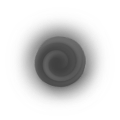
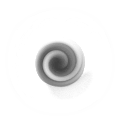
Add coin with collision.

diff --git a/src/Map.js b/src/Map.js
@@ -3,6 +3,7 @@ var Map = cc.Node.extend({
 	ctor: function( shiftedLayer ) {
 		this._super();
 		this.shiftedLayer = shiftedLayer;
+		this.collectedCoin = 0;
 		// beware BUG here.. "DO NOT" use this value for array range.
 		// this value is numbers of blocks shown in the screen.
 		this.SCREEN_WIDTH = 10;
@@ -11,11 +12,11 @@ var Map = cc.Node.extend({
 		this.readableMap = [
 			'#############################################################',
 			'#_________________________________##___#_#__##__________#####',
-			'#___________##______________________#____#__##______________#',
-			'#_________*_###____________________##__#_###________________#',
-			'#___________________________________________________________#',
+			'#____****___##________***___________#____#__##______________#',
+			'#___*_____*_###_______###__________##__#_###________________#',
+			'#_____*___________*_________________________________________#',
 			'#__________###_########___________###__#_#####______________#',
-			'###_____######_________________##########________##_________#',
+			'###__#__######_________________##########________##_________#',
 			'#####___#####################################################',
 			'#___________##############____________________#########_____#',
 			'#___________#_______________________________________________#',
@@ -134,6 +135,7 @@ var Map = cc.Node.extend({
 					type = Block.TYPE.DIRT;
 				} else if ( this.map[ r ][ c ] == '*' ) {
 					type = Block.TYPE.COIN;
+					// console.log( "coin=" + r + "," + c)
 				} else if ( this.map[ r ][ c ] == '#' ) {
 					type = Block.TYPE.DIRT;
 				} else if ( this.map[ r ][ c ] == '_' ) {
@@ -159,15 +161,47 @@ var Map = cc.Node.extend({
 		}
 	},
 
-	touched: function( blockX, blockY ) {
+	touch: function( corners ) {
+
+		for ( var i = 0; i < corners.length; i++ ) {
+			if ( corners[i].isAThing() ) {
+				var blockX = corners[i].getBlockX();
+				var blockY = corners[i].getBlockY();
+
+				var r = this.SCREEN_HEIGHT - blockY - 1;
+				r += this.shiftValueRow;
+				var c = blockX;
+				c += this.shiftValueColumn;
+				
+				if ( ! this.isOutOfBound( r, c ) ) {
+					// console.log((r - 1) + "," + c )
+					if ( this.childrenHash[ (r) + "," + c ].type == Block.TYPE.DIRT ) {
+						this.childrenHash[ (r - 1) + "," + c ].touched();
+					} else {
+
+						if ( this.childrenHash[ (r) + "," + c ].type  == Block.TYPE.COIN ) {
+							this.setBlock( r, c, "_" );
+							this.collectedCoin++;
+							this.plotMap();
+						} else {
+							this.childrenHash[ (r) + "," + c ].touched();	
+						}
+					}
+				}
+			}
+		}
+	},
+
+	isAThing: function( blockX, blockY ) {
 		var r = this.SCREEN_HEIGHT - blockY - 1;
 		r += this.shiftValueRow;
 		var c = blockX;
 		c += this.shiftValueColumn;
-		
-		if ( ! this.isOutOfBound( r, c ) ) {
-			this.childrenHash[ (r - 1) + "," + c ].touched();
+		if ( this.isOutOfBound( r, c ) ) {
+			return true;
 		}
+
+		return this.map[ r ][ c ] == '#' || this.map[ r ][ c ] == '*';
 	},
 
 	isBlock: function( blockX, blockY ) {

diff --git a/src/RigidBody.js b/src/RigidBody.js
@@ -135,11 +135,13 @@ var RigidBody = cc.Sprite.extend({
 		if ( this.velocityX < 0 ) {
 			if ( topLeftCorner.isFree() && bottomLeftCorner.isFree() ) {
 				this.nextPositionX += this.velocityX;
+				// this.checkTouchingAThing( topLeftCorner, topRightCorner, bottomLeftCorner, bottomRightCorner );
 				return;
 			}
 		} else if ( this.velocityX > 0 ) {
 			if ( topRightCorner.isFree() && bottomRightCorner.isFree() ) {
 				this.nextPositionX += this.velocityX;
+				// this.checkTouchingAThing( topLeftCorner, topRightCorner, bottomLeftCorner, bottomRightCorner );
 				return;
 			}
 		} else {
@@ -150,18 +152,26 @@ var RigidBody = cc.Sprite.extend({
 		this.velocityX = 0;
 	},
 
+	touchTheGround: function( bottomLeftCorner, bottomRightCorner ) {
+		this.jumpStep = 0;
+		this.map.touch( [ bottomLeftCorner, bottomRightCorner ] );
+	},
+
 	checkTopOrBottomCollision: function( topLeftCorner, topRightCorner, bottomLeftCorner, bottomRightCorner ) {
 		if ( this.velocityY < 0 ) {
 			if ( bottomLeftCorner.isFree() && bottomRightCorner.isFree() ) {
 				this.nextPositionY += this.velocityY;
 				return;
 			} else {
-				this.jumpStep = 0;
+				this.touchTheGround( bottomLeftCorner, bottomRightCorner );
+				this.checkTouchingAThing( topLeftCorner, topRightCorner, bottomLeftCorner, bottomRightCorner );
+
 			}
 			
 		} else if ( this.velocityY > 0 ) {
 			if ( topLeftCorner.isFree() && topRightCorner.isFree() ) {
 				this.nextPositionY += this.velocityY;
+				this.checkTouchingAThing( topLeftCorner, topRightCorner, bottomLeftCorner, bottomRightCorner );
 				return;
 			}
 		} else {
@@ -201,6 +211,20 @@ var RigidBody = cc.Sprite.extend({
 		var bottomLeftCorner = new Corner( new cc.Point( currentPositionX, newPositionY) );
 		var bottomRightCorner = new Corner( new cc.Point( currentPositionX + this.PIXEL_SIZE_WITH_OFFSET, newPositionY) );
 		this.checkTopOrBottomCollision( topLeftCorner, topRightCorner, bottomLeftCorner, bottomRightCorner );
+
+
+		// var concludePositionX = currentPositionX + this.nextPositionX;
+		// var concludePositionY = currentPositionY + this.nextPositionY;
+		// var topLeftCorner = new Corner( new cc.Point( concludePositionX, concludePositionY + this.PIXEL_SIZE_WITH_OFFSET ) );
+		// var topRightCorner = new Corner( new cc.Point( concludePositionX + this.PIXEL_SIZE_WITH_OFFSET , concludePositionY + this.PIXEL_SIZE_WITH_OFFSET) );
+		// var bottomLeftCorner = new Corner( new cc.Point( concludePositionX, concludePositionY) );
+		// var bottomRightCorner = new Corner( new cc.Point( concludePositionX + this.PIXEL_SIZE_WITH_OFFSET, concludePositionY) );
+
+		// this.checkTouchingAThing( topLeftCorner, topRightCorner, bottomLeftCorner, bottomRightCorner );
+	},
+
+	checkTouchingAThing: function( topLeftCorner, topRightCorner, bottomLeftCorner, bottomRightCorner ) {
+		this.map.touch( [ topLeftCorner, topRightCorner, bottomLeftCorner, bottomRightCorner ] );
 	},
 
 	calculateNextPosition: function( onFocus ) {

diff --git a/src/Block.js b/src/Block.js
@@ -5,7 +5,8 @@ var Block = cc.Sprite.extend({
 
 		if ( type == Block.TYPE.COIN ) {
 			// console.log("coin!")
-			this.createSpinningCoin();
+			// this.createSpinningCoin();
+			this.initWithFile( type );
 		} else {
 			this.initWithFile( type );
 		}
@@ -14,18 +15,38 @@ var Block = cc.Sprite.extend({
 		this.name = name;
 		this.type = type;
 
-		if ( this.type == Block.TYPE.GRASS ) {
-			this.animation = new cc.Animation.create();
-			this.animation.addSpriteFrameWithFile( Block.TYPE.GRASS_TOUCHED );
-			this.animation.setDelayPerUnit( 10 );
-			this.GRASS_TOUCHED_ACTION = cc.Animate.create( this.animation );
+		switch ( this.type ) {
+
+		case Block.TYPE.GRASS:
+			var animation = new cc.Animation.create();
+			animation.addSpriteFrameWithFile( Block.TYPE.GRASS_TOUCHED );
+			animation.setDelayPerUnit( 1000 );
+			this.action = cc.Animate.create( animation );
+			break;
+
+		// case Block.TYPE.COIN:
+			// var animation = new cc.Animation.create();
+			// animation.addSpriteFrameWithFile( Block.TYPE.COIN_TOUCH );
+			// animation.setDelayPerUnit( 1000 );
+			// this.action = cc.Animate.create( animation );
+			// break;
+
 		}
 
 	},
 
 	touched: function() {
-		if ( this.type == Block.TYPE.GRASS ) {
-			this.runAction( this.GRASS_TOUCHED_ACTION );
+		switch ( this.type ) {
+
+		case Block.TYPE.GRASS:
+			this.runAction( this.action );
+			break;
+
+		case Block.TYPE.COIN:
+			// this.runAction( this.action );
+			console.log( "get coin")
+			break;
+
 		}
 	},
 
@@ -33,9 +54,9 @@ var Block = cc.Sprite.extend({
 		var animation = new cc.Animation.create();
 		animation.addSpriteFrameWithFile( 'images/coin/coin0.png' );
 		// animation.addSpriteFrameWithFile( 'images/coin/coin1.png' );
-		animation.addSpriteFrameWithFile( 'images/coin/coin2.png' );
+		// animation.addSpriteFrameWithFile( 'images/coin/coin2.png' );
 		// animation.addSpriteFrameWithFile( 'images/coin/coin3.png' );
-		animation.addSpriteFrameWithFile( 'images/coin/coin4.png' );
+		// animation.addSpriteFrameWithFile( 'images/coin/coin4.png' );
 		// animation.addSpriteFrameWithFile( 'images/coin/coin5.png' );
 		// animation.addSpriteFrameWithFile( 'images/coin/coin0.png' );
 		animation.setDelayPerUnit( 0.1 );
@@ -49,7 +70,7 @@ var Block = cc.Sprite.extend({
 
 Block.TYPE = {
 	AIR: "images/blocks/air.png",
-	COIN: "images/blocks/coin.png",
+	COIN: "images/blocks/coin2.png",
 	DIRT: "images/blocks/dirt.png",
 	DIRT_FLOAT: "images/blocks/dirt_float.png",
 	GRASS: "images/blocks/grass.png",

diff --git a/src/Corner.js b/src/Corner.js
@@ -7,9 +7,20 @@ var Corner = cc.Node.extend({
 		this.y = point.y;
 	},
 
+	getBlockX: function() {
+		return Math.floor( ( this.x - Corner.map.getPositionX() ) / 120 );
+	},
+
+	getBlockY: function() {
+		return Math.floor( ( this.y - Corner.map.getPositionY() ) / 120 );
+	},
+
 	isFree: function() {
-		// console.log( this.map.getPositionY() )
-		return ! Corner.map.isBlock( Math.floor( ( this.x - Corner.map.getPositionX() ) / 120 ) , Math.floor( ( this.y - Corner.map.getPositionY() ) / 120 ) );
+		return ! Corner.map.isBlock( this.getBlockX(), this.getBlockY() );
+	},
+
+	isAThing: function() {
+		return Corner.map.isAThing( this.getBlockX(), this.getBlockY() );
 	},
 
 });

diff --git a/src/GameLayer.js b/src/GameLayer.js
@@ -172,7 +172,9 @@ var GameLayer = cc.LayerColor.extend({
 
 		case cc.KEY.a:
 			// console.log( this.player.accumulatedX, this.player.accumulatedY )
-			console.log( this.shiftedLayer.getPosition() )
+			// console.log( this.shiftedLayer.getPosition() )
+			// console.log( this.map.childrenHash )
+			console.log( this.map.collectedCoin )
 
 		default:
 			break;
